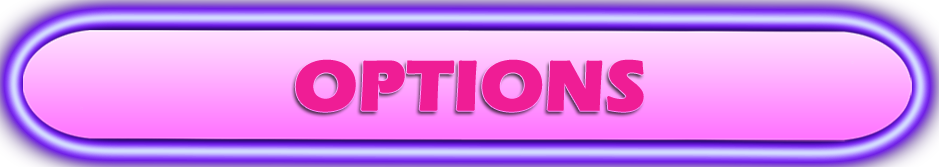
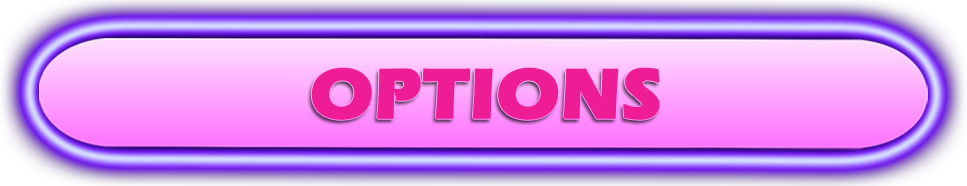
Add files via upload

diff --git a/play.js b/play.js
@@ -1,5 +1,6 @@
 var gameWidth = window.innerWidth,
-    gameHeight= window.innerHeight;
+    gameHeight = window.innerHeight;
+
 
 //Des alias qui permettent de raccourcir le code
 var Application = PIXI.Application,
@@ -38,54 +39,63 @@ loader
 var state;
 var menuScene, gameScene;
 var play, play_button, play_hover, options, quit;
-app.renderer.autoResize= true;
+app.renderer.autoResize = true;
 //Initialisation des images, textures et containers
 function setup() {
-    
+    //fond
     var bg = new Sprite(resources["lib/main menu/background.png"].texture);
     bg.width = gameWidth;
     bg.height = gameHeight;
-
+    //titre
     var title = new Sprite(resources["lib/main menu/title.png"].texture);
-    title.width = gameWidth*80/100;
-    title.height = gameHeight*20/100;
-    title.x = gameWidth/2-title.width/2;
-    title.y = 7/100*gameHeight;
+    title.width = gameWidth * 80 / 100;
+    title.height = gameHeight * 20 / 100;
+    title.x = gameWidth / 2 - title.width / 2;
+    title.y = 7 / 100 * gameHeight;
     
-    app.stage.addChild(bg,title);
+    //mise en place de l'écran menu (titre + fond) dans la scène
+    app.stage.addChild(bg, title);
     
+    //bouton Jouer
     play = new Sprite();
     play_button = TextureCache["lib/main menu/buttons/play.png"];
     play_hover = TextureCache["lib/main menu/buttons/play_hover.png"];
     play.texture = play_button;
-    play.width = gameWidth*40/100;
-    play.height = gameHeight*10/100;
-    play.x = gameWidth/2-play.width/2;
-    play.y = gameHeight*45/100;
-    play.setInteractive = true;
-    play.on('mouseover', onMouseOver);
-    play.on('mouseout', onMouseOut);
-    
-    
+    play.width = gameWidth * 40 / 100;
+    play.height = gameHeight * 15 / 100;
+    play.x = gameWidth / 2 - play.width / 2;
+    play.y = gameHeight * 45 / 100;
+    play.interactive = true;
+    play.on('mouseover', function () {this.texture = play_hover;});
+    play.on('mouseout', function () {this.texture = play_button;});
+
+    //bouton Options 
     options = new Sprite(resources["lib/main menu/buttons/options.png"].texture);
-    options.width = gameWidth*40/100;
-    options.height = gameHeight*10/100;
-    options.x = gameWidth/2-options.width/2;
-    options.y = gameHeight*45/100+options.height*1.5;
+    play_hover = TextureCache["lib/main menu/buttons/play_hover.png"];
+    options.width = gameWidth * 40 / 100;
+    options.height = gameHeight * 15 / 100;
+    options.x = gameWidth / 2 - options.width / 2;
+    options.y = gameHeight * 45 / 100 + options.height;
+    options.interactive = true;
+    options.on('mouseover', function() {this.texture = options_hover;});
+    options.on('mouseout', function() {this.texture = options_button;});
     
+    //bouton Quitter
     quit = new Sprite(resources["lib/main menu/buttons/quit.png"].texture);
-    quit.width = gameWidth*40/100;
-    quit.height = gameHeight*10/100;
-    quit.x = gameWidth/2-quit.width/2;
-    quit.y = gameHeight*45/100+quit.height*1.5*2;
-    
+    quit.width = gameWidth * 40 / 100;
+    quit.height = gameHeight * 15 / 100;
+    quit.x = gameWidth / 2 - quit.width / 2;
+    quit.y = gameHeight * 45 / 100 + quit.height * 2;
+    quit.interactive = true;
+    quit.on('mouseover', function() {this.texture = quit_hover;});
+    quit.on('mouseout', function() {this.texture = quit_button;});
     //menuScene = new Container();
     //menuScene.addChild(play, options, quit);
-    app.stage.addChild(play,options,quit);
-    
+    app.stage.addChild(play, options, quit);
+
     gameScene = new Container();
     app.stage.addChild(gameScene);
-    
+
     state = menu;
 
     gameLoop();
@@ -100,19 +110,16 @@ function gameLoop() {
 
 //Tout le code du menu principal est placé ici
 function menu() {
-    
-    
-    
+
+
 }
 //Tout le code du jeu est placé ici
 function play() {
-    
+
 }
 
-function onMouseOver() {
-    this.texture = play_hover;
-}
 
 function onMouseOut() {
+
     this.texture = play_button;
 }
